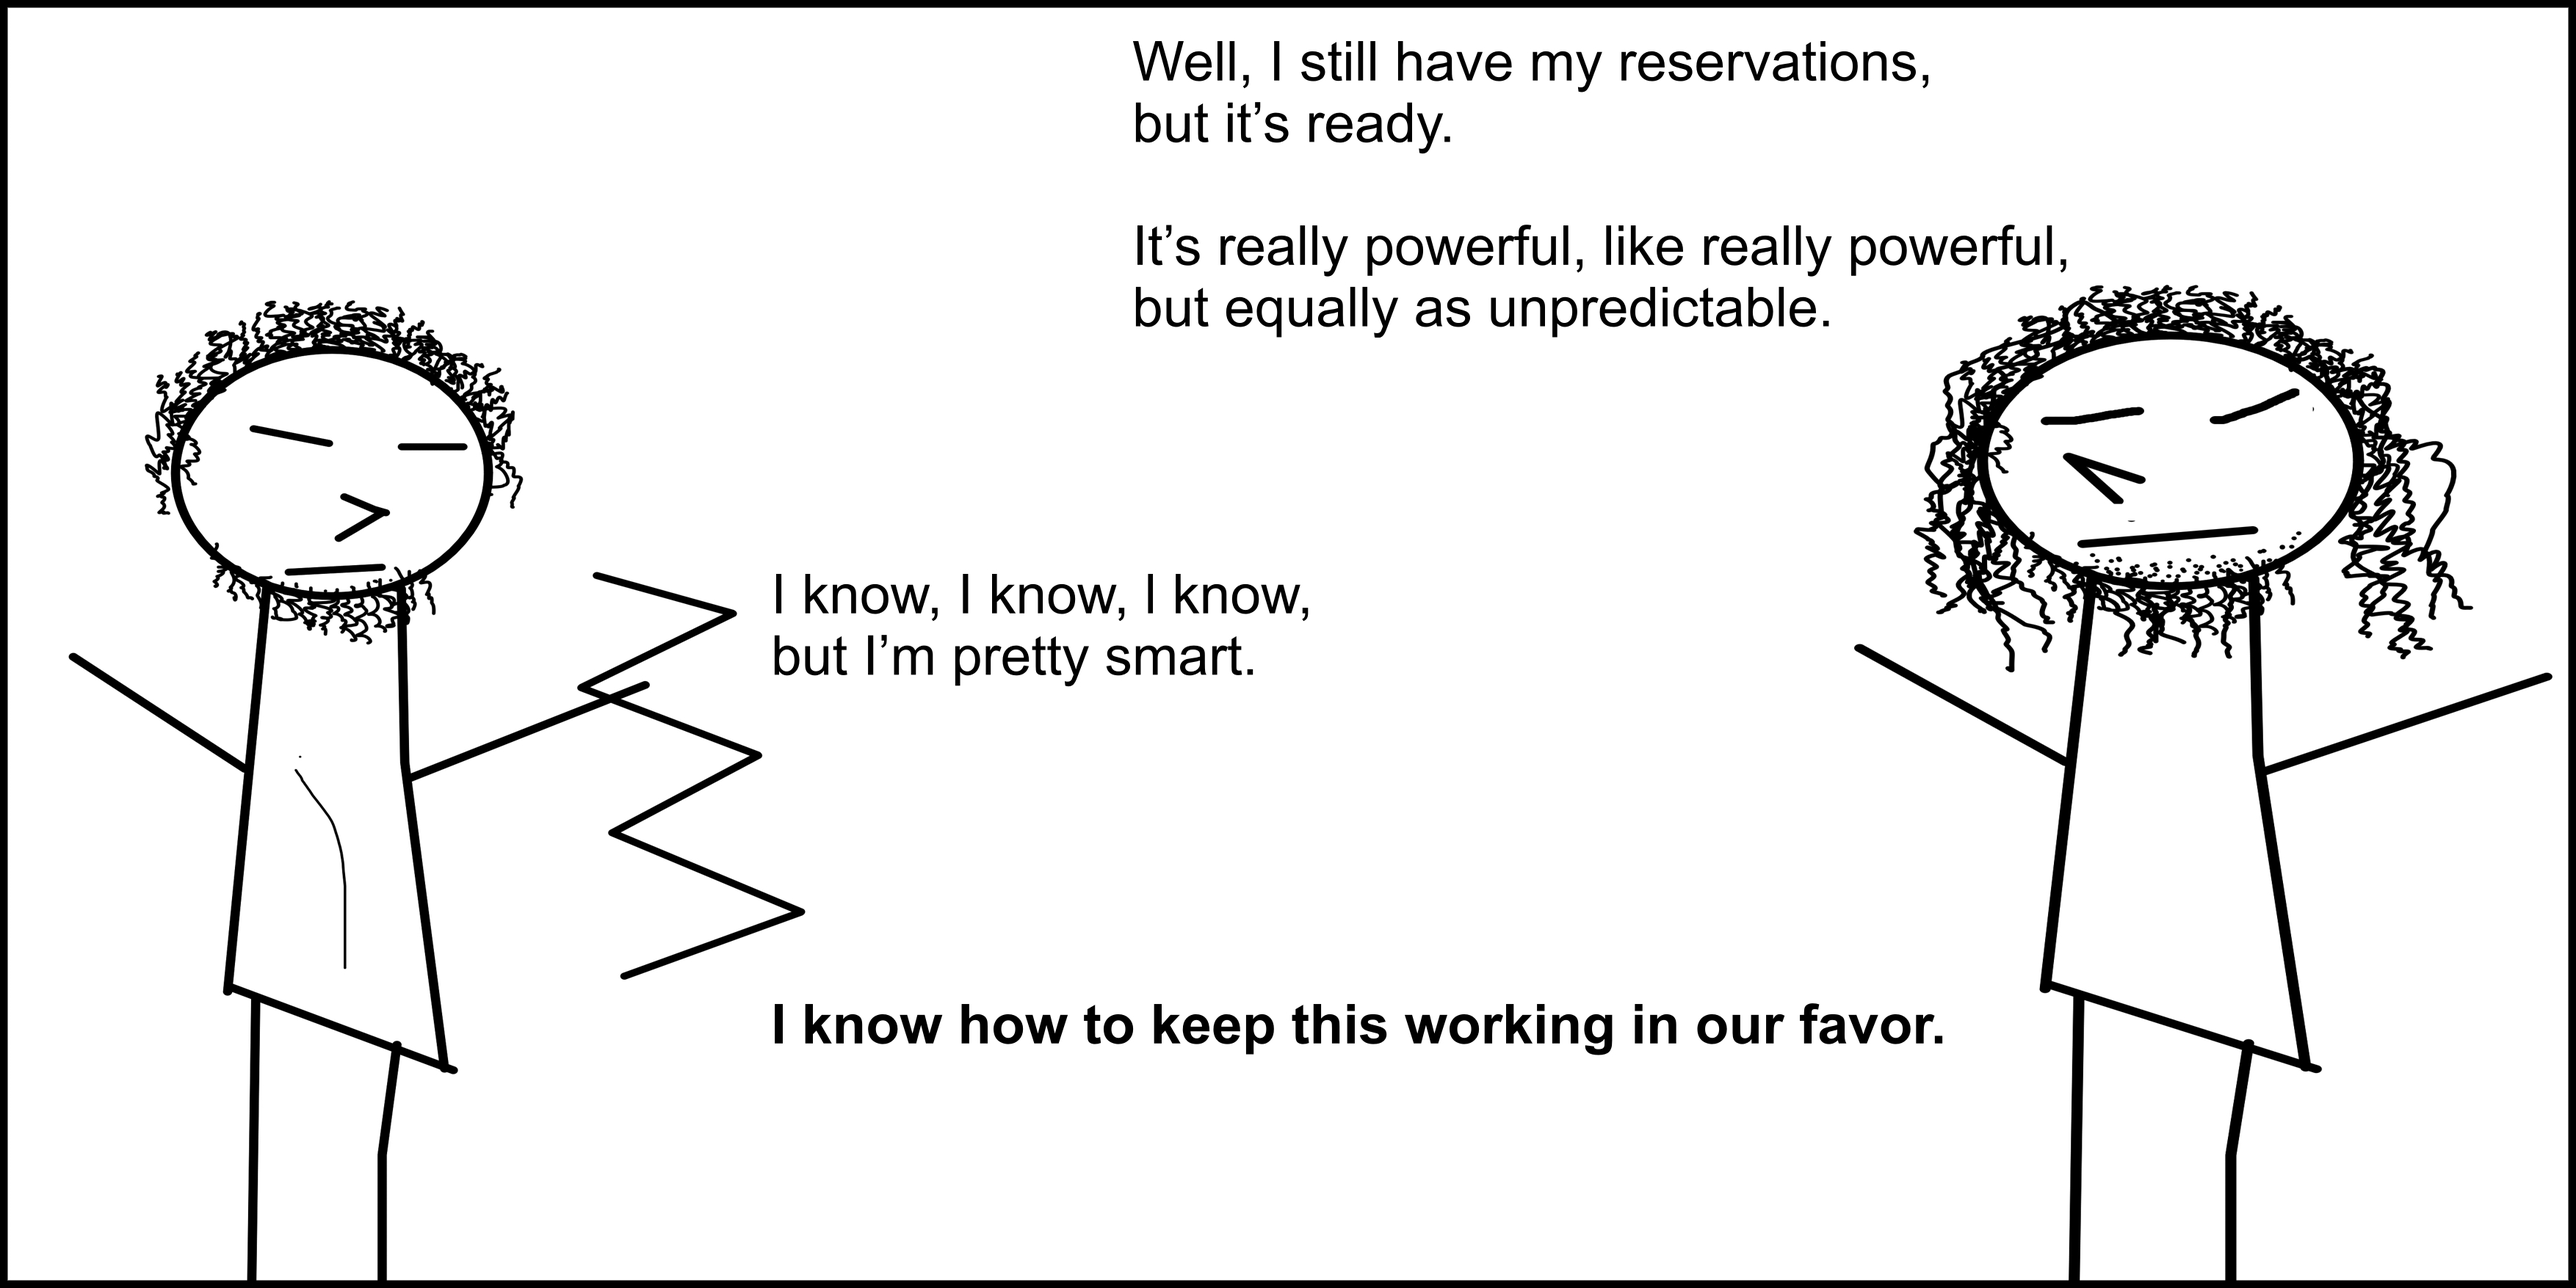
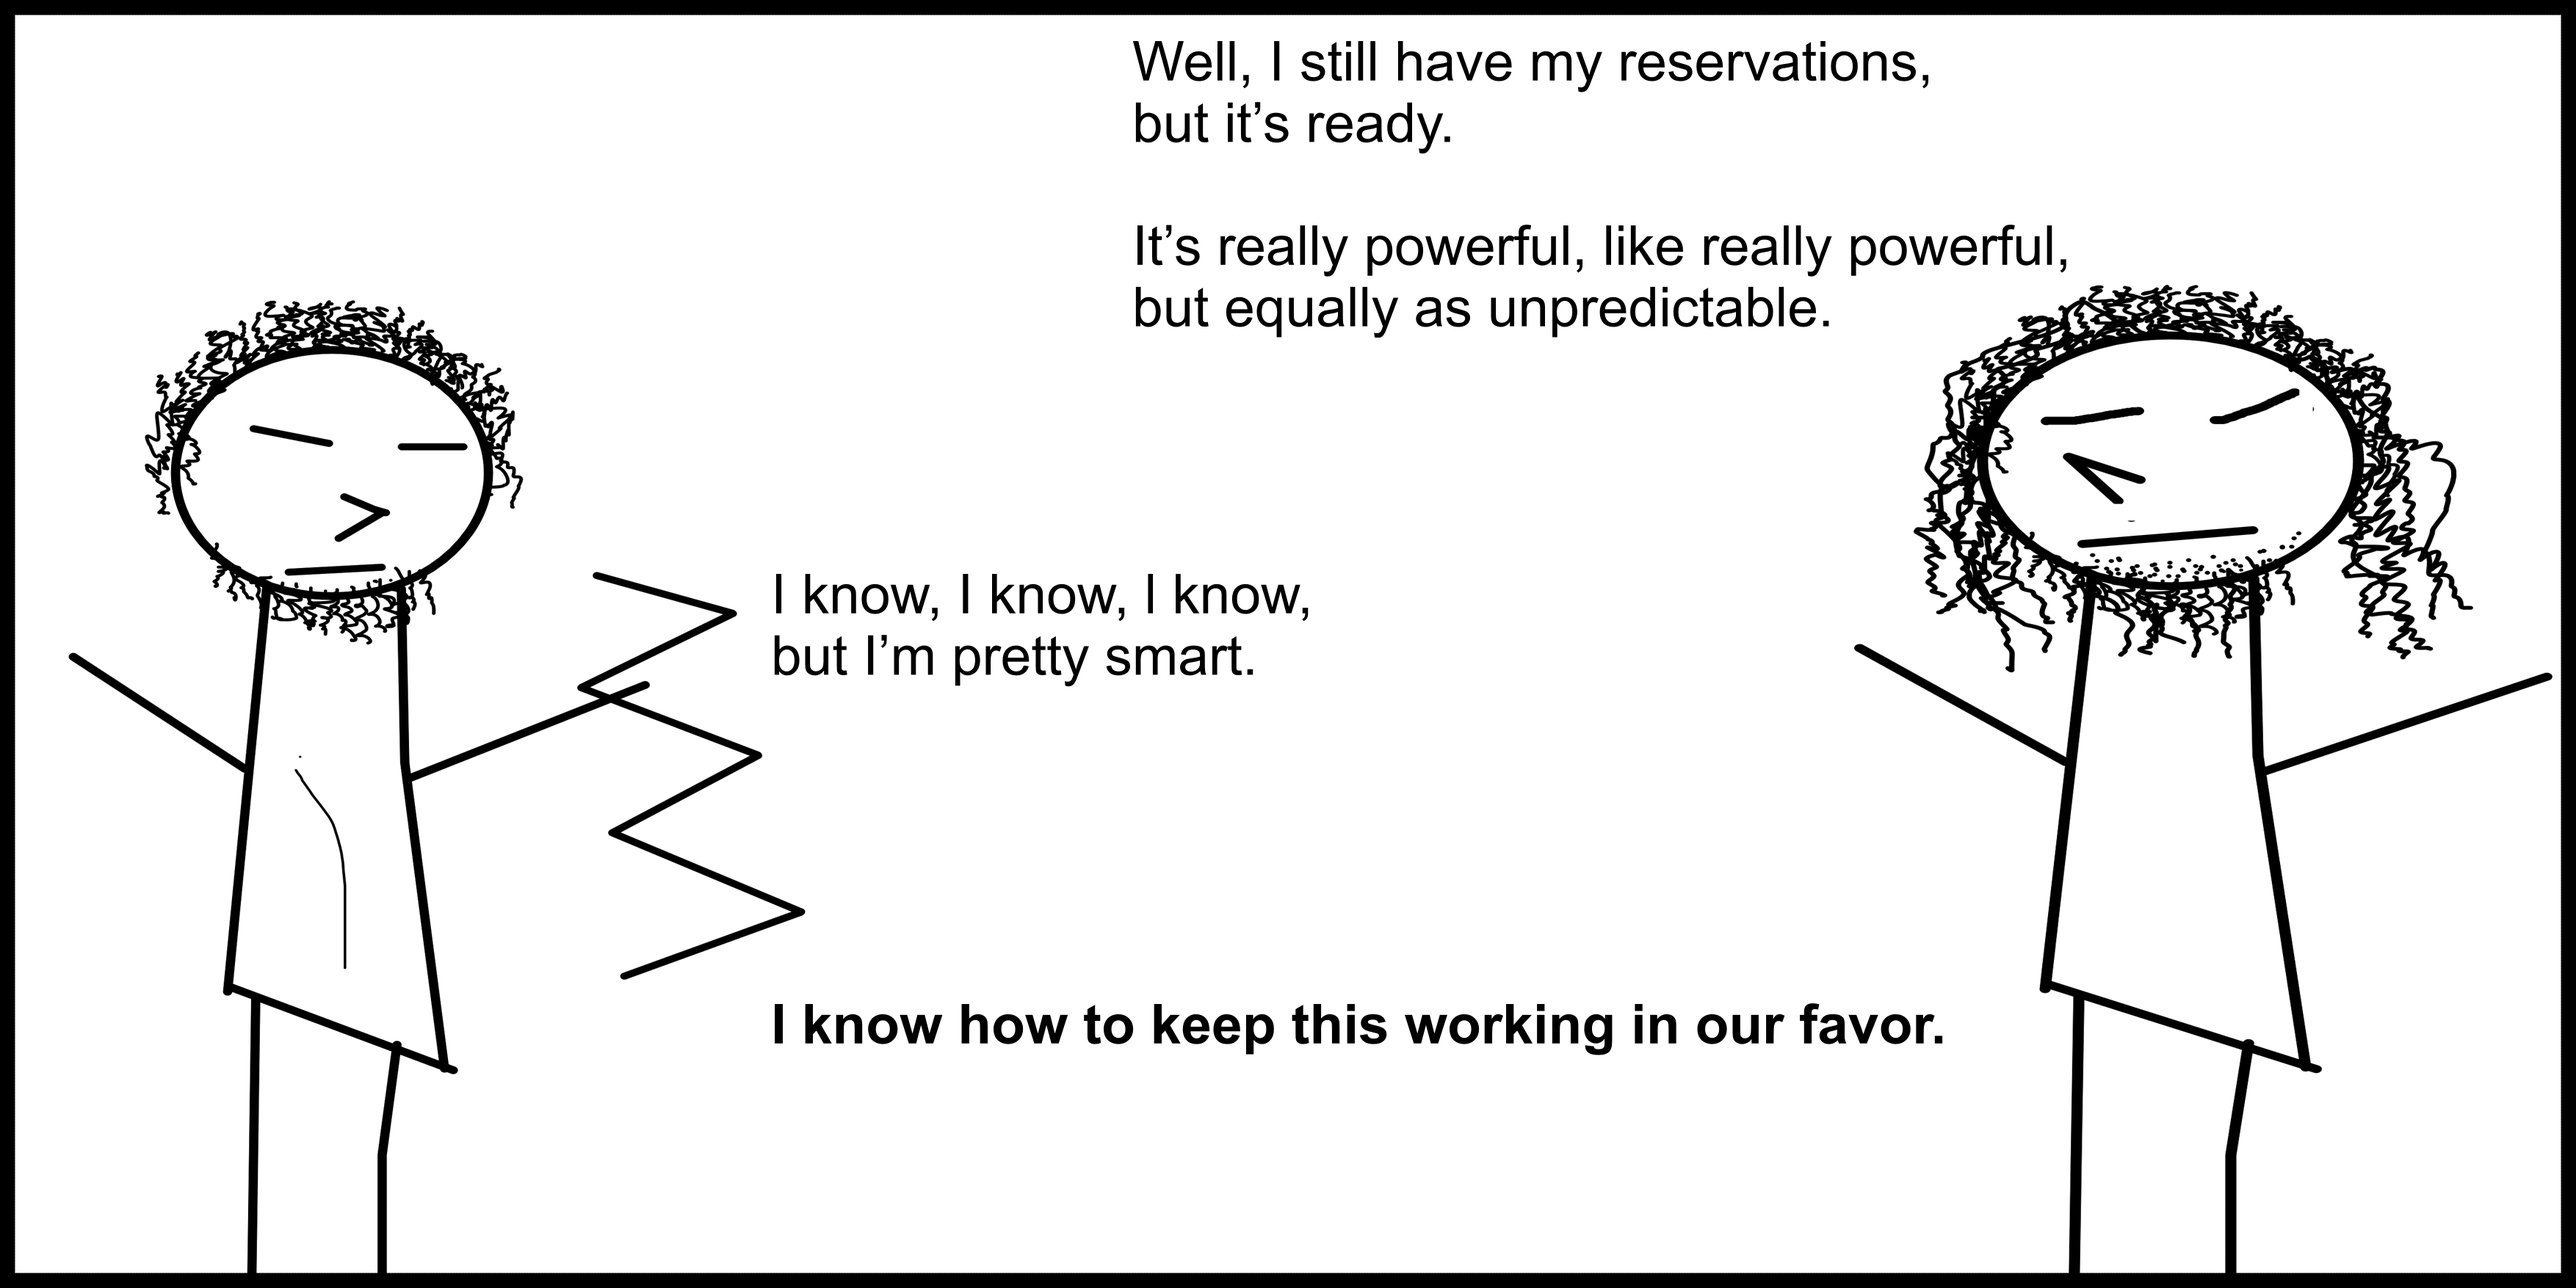
Fixing border

Changed region(s): [[0.0, 0.0, 1.0, 1.0]]

diff --git a/assets/css/style.scss b/assets/css/style.scss
@@ -123,3 +123,4 @@ body {
   max-width: 100%;
 }
 
+

diff --git a/services.md b/services.md
@@ -11,8 +11,9 @@ intro_image_hide_on_mobile: true
 
 ### One Last Commit
 <span class = 'blog'>
+
+
 <img class = 'comic' src='/assets/cartoon/002/002-s1.jpg'> <br />
-</span>
 
 <img class = 'comic' src='/assets/cartoon/002/002-s2.jpg'> <br />
 
